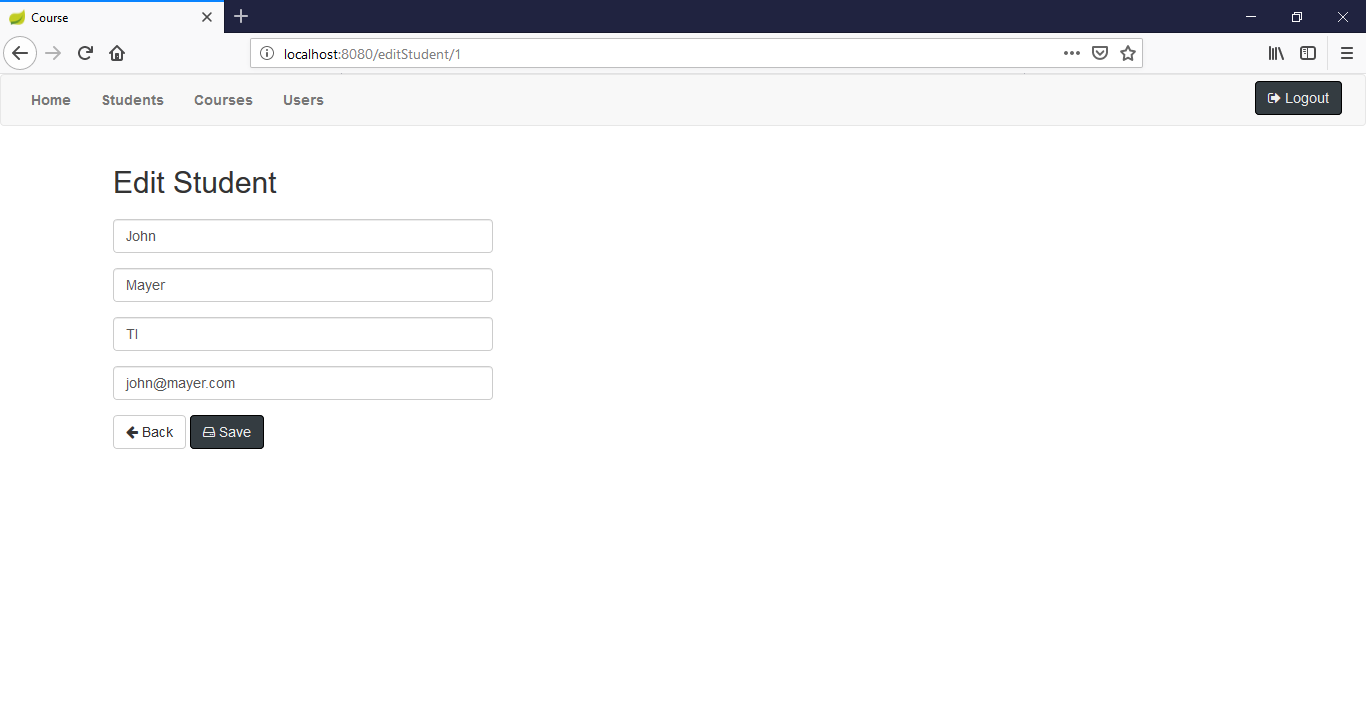
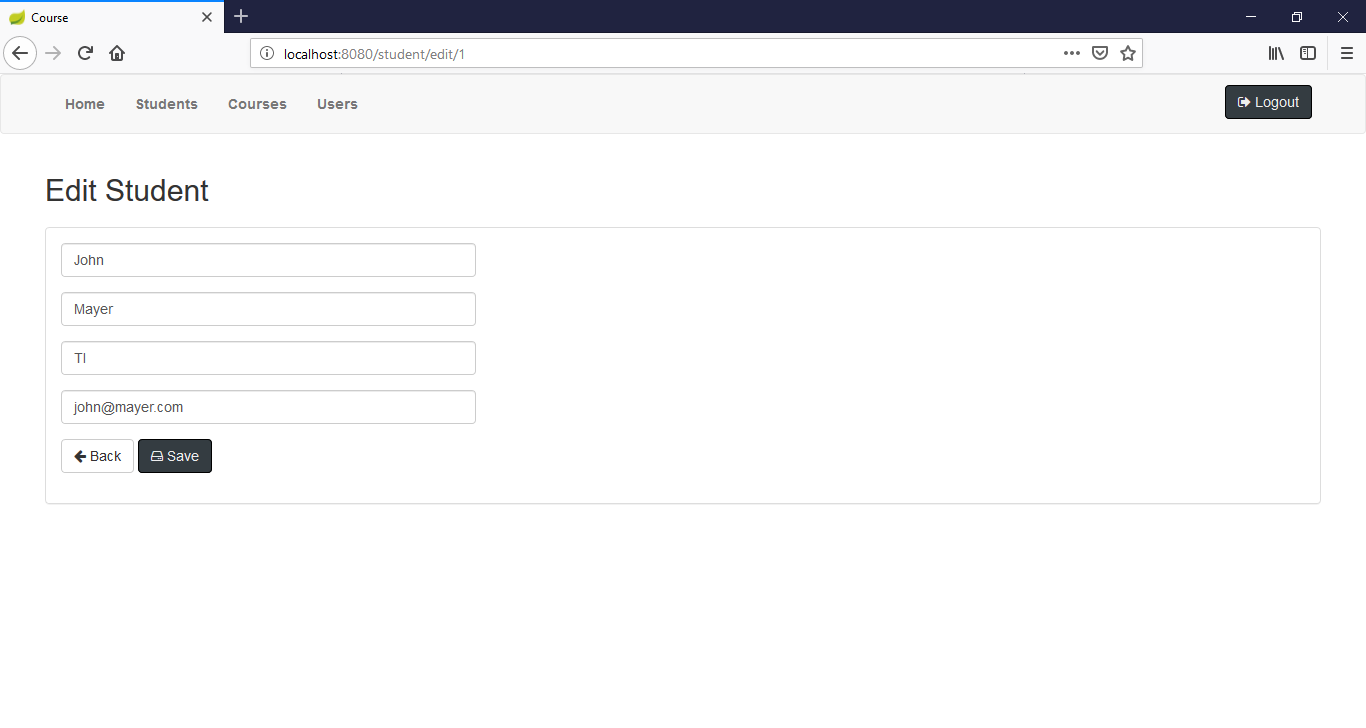
Update files

diff --git a/src/main/resources/templates/studentForm.html b/src/main/resources/templates/studentForm.html
@@ -7,32 +7,36 @@
         <!--/*/ <th:block th:include="fragments/header :: header"></th:block> /*/-->
         <div class="container-fluid">
             <h2>[[${title}]]</h2>
-            <div class="col-md-4">
-                <form th:object="${student}" th:action="@{/saveStudent}" action="#" method="post">
-                    <input type="hidden" th:field="*{id}"/>
-                    <div class="form-group">
-                        <input type="text" th:field="*{firstName}" th:errorclass="invalid-feedback-input" class="form-control" placeholder="Firstname" />
-                        <p th:if="${#fields.hasErrors('firstName')}" th:errors="*{firstName}" th:errorclass="invalid-feedback">Firstname Error</p>
+            <div class="panel panel-default">
+                <div class="panel-body">
+                    <div class="col-md-4">
+                        <form th:object="${student}" th:action="@{/saveStudent}" action="#" method="post">
+                            <input type="hidden" th:field="*{id}"/>
+                            <div class="form-group">
+                                <input type="text" th:field="*{firstName}" th:errorclass="invalid-feedback-input" class="form-control" placeholder="Firstname" />
+                                <p th:if="${#fields.hasErrors('firstName')}" th:errors="*{firstName}" th:errorclass="invalid-feedback">Firstname Error</p>
+                            </div>
+                            <div class="form-group">
+                                <input type="text" th:field="*{lastName}" th:errorclass="invalid-feedback-input" class="form-control" placeholder="Lastname" />
+                                <p th:if="${#fields.hasErrors('lastName')}" th:errors="*{lastName}" th:errorclass="invalid-feedback">Lastname Error</p>
+                            </div>
+                            <div class="form-group">
+                                <input type="text" th:field="*{department}" th:errorclass="invalid-feedback-input" class="form-control" placeholder="Department" />
+                                <p th:if="${#fields.hasErrors('department')}" th:errors="*{department}" th:errorclass="invalid-feedback">Department Error</p>
+                            </div>	
+                            <div class="form-group">
+                                <input type="text" th:field="*{email}" th:errorclass="invalid-feedback-input" class="form-control" placeholder="Email" />
+                                <p th:if="${#fields.hasErrors('email')}" th:errors="*{email}" th:errorclass="invalid-feedback">Email Error</p>
+                            </div>
+                            <div class="form-group">
+                                <a class="btn btn-default" href="/students"><i class="fa fa-arrow-left"></i> Back</a>
+                                <button type="submit" class="btn btn-login"/>
+                                <i class="fa fa-hdd-o"></i> Save
+                                </button>
+                            </div>
+                        </form>
                     </div>
-                    <div class="form-group">
-                        <input type="text" th:field="*{lastName}" th:errorclass="invalid-feedback-input" class="form-control" placeholder="Lastname" />
-                        <p th:if="${#fields.hasErrors('lastName')}" th:errors="*{lastName}" th:errorclass="invalid-feedback">Lastname Error</p>
-                    </div>
-                    <div class="form-group">
-                        <input type="text" th:field="*{department}" th:errorclass="invalid-feedback-input" class="form-control" placeholder="Department" />
-                        <p th:if="${#fields.hasErrors('department')}" th:errors="*{department}" th:errorclass="invalid-feedback">Department Error</p>
-                    </div>	
-                    <div class="form-group">
-                        <input type="text" th:field="*{email}" th:errorclass="invalid-feedback-input" class="form-control" placeholder="Email" />
-                        <p th:if="${#fields.hasErrors('email')}" th:errors="*{email}" th:errorclass="invalid-feedback">Email Error</p>
-                    </div>
-                    <div class="form-group">
-                        <a class="btn btn-default" href="/students"><i class="fa fa-arrow-left"></i> Back</a>
-                        <button type="submit" class="btn btn-login"/>
-                        <i class="fa fa-hdd-o"></i> Save
-                        </button>
-                    </div>
-                </form>
+                </div>
             </div>
         </div>
     </body>

diff --git a/src/main/resources/templates/addStudentCourse.html b/src/main/resources/templates/addStudentCourse.html
@@ -7,36 +7,40 @@
         <!--/*/ <th:block th:include="fragments/header :: header"></th:block> /*/-->
         <div class="container-fluid">
             <h2>Add Course</h2>
-            <form th:action="@{/student/{id}/courses(id=${student.id})}" method="get" enctype="multipart/form-data" >
-                <div class="col-md-4">
-                    <div class="panel panel-default">
-                        <div class="panel-heading">Student Info</div>
-                        <div class="panel-body" style="padding-left: 15px;">
-                            Name: <b th:text="${student.firstName}" /> <b th:text="${student.lastName}" /><br/>
-                            Email: <span th:text="${student.email}" /><br/>
-                            Department: <span th:text="${student.department}" /><br/>
-                            <br/>Courses:
-                            <span th:each="course : ${student.courses}">
-                                <br/>&nbsp;&nbsp;<span th:text="${course.name}" />
-                            </span>
-                            <br/>
+            <div class="panel panel-default">
+                <div class="panel-body">
+                    <form th:action="@{/student/{id}/courses(id=${student.id})}" method="get" enctype="multipart/form-data" >
+                        <div class="col-md-4">
+                            <div class="panel panel-default">
+                                <div class="panel-heading">Student Info</div>
+                                <div class="panel-body" style="padding-left: 15px;">
+                                    Name: <b th:text="${student.firstName}" /> <b th:text="${student.lastName}" /><br/>
+                                    Email: <span th:text="${student.email}" /><br/>
+                                    Department: <span th:text="${student.department}" /><br/>
+                                    <br/>Courses:
+                                    <span th:each="course : ${student.courses}">
+                                        <br/>&nbsp;&nbsp;<span th:text="${course.name}" />
+                                    </span>
+                                    <br/>
+                                </div>
+                            </div>
+                            <div class="form-group">
+                                <select class="form-control" name="courseId">
+                                    <option th:each="course : ${courses}" 
+                                            th:value="${course.courseid}" 
+                                            th:text="${course.name}">Course</option>
+                                </select>
+                            </div>
+                            <div class="form-group">
+                                <a class="btn btn-default" href="/students"><i class="fa fa-arrow-left"></i> Back</a>
+                                <button type="submit" name="action" value="save" class="btn btn-login"/>
+                                <i class="fa fa-hdd-o"></i> Save
+                                </button>
+                            </div>
                         </div>
-                    </div>
-                    <div class="form-group">
-                        <select class="form-control" name="courseId">
-                            <option th:each="course : ${courses}" 
-                                    th:value="${course.courseid}" 
-                                    th:text="${course.name}">Course</option>
-                        </select>
-                    </div>
-                    <div class="form-group">
-                        <a class="btn btn-default" href="/students"><i class="fa fa-arrow-left"></i> Back</a>
-                        <button type="submit" name="action" value="save" class="btn btn-login"/>
-                        <i class="fa fa-hdd-o"></i> Save
-                        </button>
-                    </div>
+                    </form>
                 </div>
-            </form>
+            </div>
         </div>
     </body>
 </html>

diff --git a/src/main/resources/templates/userForm.html b/src/main/resources/templates/userForm.html
@@ -7,30 +7,34 @@
         <!--/*/ <th:block th:include="fragments/header :: header"></th:block> /*/-->
         <div class="container-fluid">
             <h2>[[${title}]]</h2>
-            <div class="col-md-4">
-                <form th:object="${user}" th:action="@{/saveUser}" action="#" method="post">
-                    <input type="hidden" th:field="*{id}"/>
-                    <div class="form-group">
-                        <input type="text" th:field="*{username}" th:errorclass="invalid-feedback-input" class="form-control" placeholder="Username" />
-                        <p th:if="${#fields.hasErrors('username')}" th:errors="*{username}" th:errorclass="invalid-feedback">Username is invalid</p>
+            <div class="panel panel-default">
+                <div class="panel-body">
+                    <div class="col-md-4">
+                        <form th:object="${user}" th:action="@{/saveUser}" action="#" method="post">
+                            <input type="hidden" th:field="*{id}"/>
+                            <div class="form-group">
+                                <input type="text" th:field="*{username}" th:errorclass="invalid-feedback-input" class="form-control" placeholder="Username" />
+                                <p th:if="${#fields.hasErrors('username')}" th:errors="*{username}" th:errorclass="invalid-feedback">Username is invalid</p>
+                            </div>
+                            <div class="form-group">
+                                <input type="text" name="password" th:errorclass="invalid-feedback-input" class="form-control" placeholder="Password" />
+                                <p th:if="${#fields.hasErrors('password')}" th:errors="*{password}" th:errorclass="invalid-feedback">Password is invalid</p>
+                            </div>
+                            <div class="form-group">
+                                <select class="form-control" th:field="*{role}">
+                                    <option th:value="ADMIN" th:text="ADMIN">ADMIN</option>
+                                    <option th:value="USER" th:text="USER">USER</option>
+                                </select>
+                            </div>
+                            <div class="form-group">
+                                <a class="btn btn-default" href="/users"><i class="fa fa-arrow-left"></i> Back</a>
+                                <button type="submit" class="btn btn-login"/>
+                                <i class="fa fa-hdd-o"></i> Save
+                                </button>
+                            </div>
+                        </form>
                     </div>
-                    <div class="form-group">
-                        <input type="text" name="password" th:errorclass="invalid-feedback-input" class="form-control" placeholder="Password" />
-                        <p th:if="${#fields.hasErrors('password')}" th:errors="*{password}" th:errorclass="invalid-feedback">Password is invalid</p>
-                    </div>
-                    <div class="form-group">
-                        <select class="form-control" th:field="*{role}">
-                            <option th:value="ADMIN" th:text="ADMIN">ADMIN</option>
-                            <option th:value="USER" th:text="USER">USER</option>
-                        </select>
-                    </div>
-                    <div class="form-group">
-                        <a class="btn btn-default" href="/users"><i class="fa fa-arrow-left"></i> Back</a>
-                        <button type="submit" class="btn btn-login"/>
-                        <i class="fa fa-hdd-o"></i> Save
-                        </button>
-                    </div>
-                </form>
+                </div>
             </div>
         </div>
     </body>

diff --git a/src/main/resources/templates/courseForm.html b/src/main/resources/templates/courseForm.html
@@ -7,20 +7,24 @@
         <!--/*/ <th:block th:include="fragments/header :: header"></th:block> /*/-->
         <div class="container-fluid">
             <h2>[[${title}]]</h2>
-            <div class="col-md-4">
-                <form th:object="${course}" th:action="@{/saveCourse}" action="#" method="post">
-                    <input type="hidden" th:field="*{courseid}"/>
-                    <div class="form-group">
-                        <input type="text" th:field="*{name}" th:errorclass="invalid-feedback-input" class="form-control" placeholder="Course" />
-                        <p th:if="${#fields.hasErrors('name')}" th:errors="*{name}" th:errorclass="invalid-feedback">Course Error</p>
+            <div class="panel panel-default">
+                <div class="panel-body">
+                    <div class="col-md-4">
+                        <form th:object="${course}" th:action="@{/saveCourse}" action="#" method="post">
+                            <input type="hidden" th:field="*{courseid}"/>
+                            <div class="form-group">
+                                <input type="text" th:field="*{name}" th:errorclass="invalid-feedback-input" class="form-control" placeholder="Course" />
+                                <p th:if="${#fields.hasErrors('name')}" th:errors="*{name}" th:errorclass="invalid-feedback">Course Error</p>
+                            </div>
+                            <div class="form-group">
+                                <a class="btn btn-default" href="/courses"><i class="fa fa-arrow-left"></i> Back</a>
+                                <button type="submit" class="btn btn-login"/>
+                                <i class="fa fa-hdd-o"></i> Save
+                                </button>
+                            </div>
+                        </form>
                     </div>
-                    <div class="form-group">
-                        <a class="btn btn-default" href="/courses"><i class="fa fa-arrow-left"></i> Back</a>
-                        <button type="submit" class="btn btn-login"/>
-                        <i class="fa fa-hdd-o"></i> Save
-                        </button>
-                    </div>
-                </form>
+                </div>
             </div>
         </div>
     </body>

diff --git a/src/main/java/course/repository/StudentRepository.java b/src/main/java/course/repository/StudentRepository.java
@@ -7,7 +7,7 @@ import org.springframework.data.repository.CrudRepository;
 
 public interface StudentRepository extends CrudRepository<Student, Long> {
 
-    List<Student> findByLastName(String lastname);
+    Student findByFirstName(String firstName);
     List<Student> findAllByOrderByFirstNameAsc();
 
 }

diff --git a/src/main/java/course/repository/CourseRepository.java b/src/main/java/course/repository/CourseRepository.java
@@ -7,6 +7,7 @@ import org.springframework.data.repository.CrudRepository;
 
 public interface CourseRepository extends CrudRepository<Course, Long> {
 
-    List<Course> findByName(String name);
+    Course findByName(String name);
     List<Course> findAllByOrderByNameAsc();
+    
 }

diff --git a/src/main/java/course/controller/IndexController.java b/src/main/java/course/controller/IndexController.java
@@ -7,7 +7,7 @@ import org.springframework.web.bind.annotation.RequestMapping;
 public class IndexController {
 
     @RequestMapping("/")
-    String index() {
+    public String index() {
         return "index";
     }
 

diff --git a/src/main/java/course/repository/UserRepository.java b/src/main/java/course/repository/UserRepository.java
@@ -10,4 +10,5 @@ public interface UserRepository extends CrudRepository<User, Long> {
 
     User findByUsername(String username);
     List<User> findAllByOrderByUsernameAsc();
+    
 }
